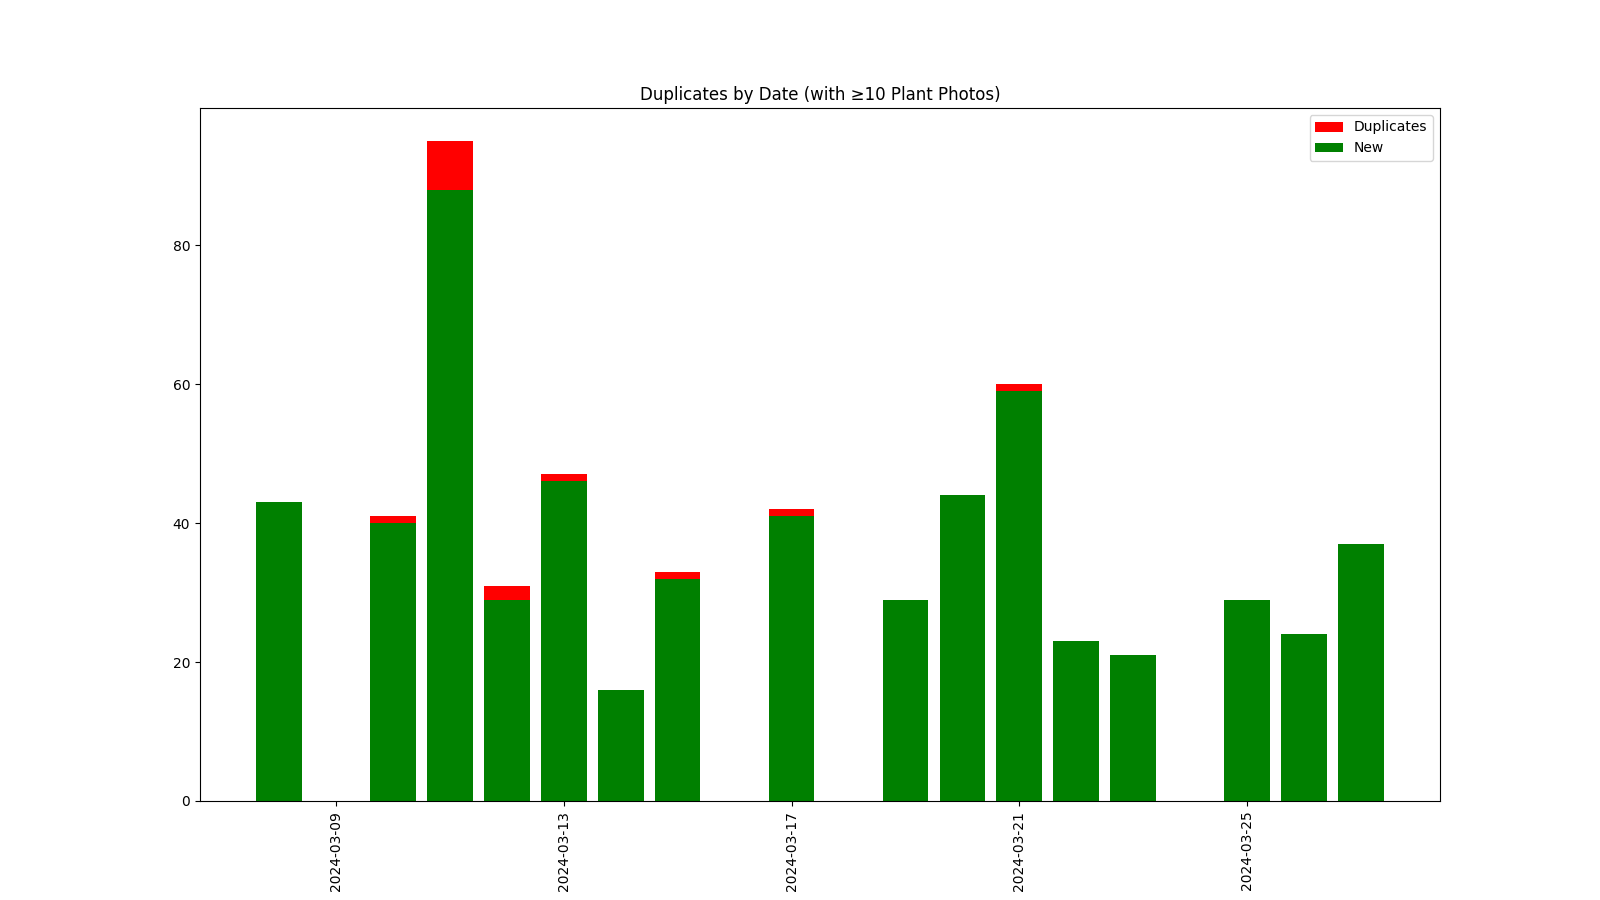
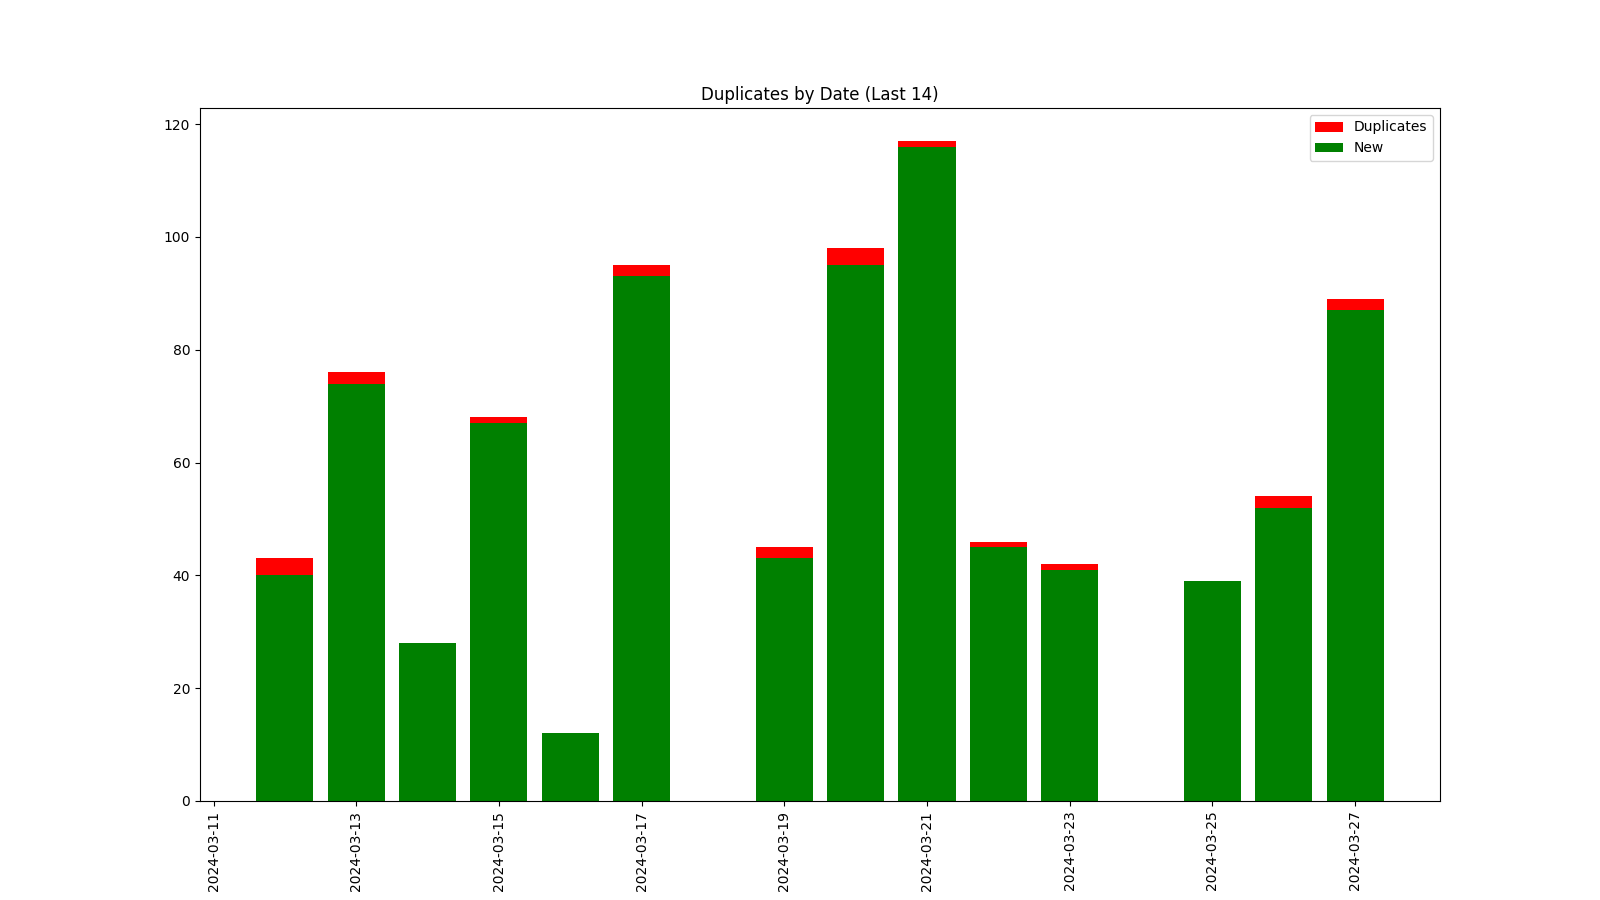
Ran pipeline

diff --git a/src/lk_plants/analysis/ReadMeDuplicates.py b/src/lk_plants/analysis/ReadMeDuplicates.py
@@ -6,6 +6,7 @@ import matplotlib.pyplot as plt
 from utils import Log
 
 from lk_plants.analysis.InfoReadMe import InfoReadMe
+from lk_plants.core.plant_photo.PlantPhoto import PlantPhoto
 from utils_future import Markdown, MarkdownPage
 
 log = Log('ReadMeDuplicates')
@@ -18,7 +19,7 @@ class ReadMeDuplicates(MarkdownPage, InfoReadMe):
 
     @cached_property
     def duplicates_by_date_stats(self) -> list[str]:
-        plant_photo_list = self.plant_photo_list
+        plant_photo_list = PlantPhoto.list_all()
         idx = {}
         for plant_photo in plant_photo_list:
             date_str = plant_photo.date_str
@@ -50,9 +51,11 @@ class ReadMeDuplicates(MarkdownPage, InfoReadMe):
     @cached_property
     def lines_duplicates_by_date(self) -> list[str]:
         plt.close()
-        stats_all = self.duplicates_by_date_stats
-        MIN_PHOTOS_IN_DATE = 10
-        stats = [s for s in stats_all if s['n_total'] >= MIN_PHOTOS_IN_DATE]
+        stats = self.duplicates_by_date_stats
+        MIN_DAYS_DISPLAY = 14
+        if len(stats) > MIN_DAYS_DISPLAY:
+            stats = stats[-MIN_DAYS_DISPLAY:]
+
         x = [datetime.strptime(s['date_str'], '%Y-%m-%d') for s in stats]
         y_duplicates = [s['n_total'] for s in stats]
         y_new = [s['n_new'] for s in stats]
@@ -64,10 +67,7 @@ class ReadMeDuplicates(MarkdownPage, InfoReadMe):
         plt.bar(x, y_duplicates, label='Duplicates', color="red")
         plt.bar(x, y_new, label='New', color="green")
         plt.legend()
-        plt.title(
-            'Duplicates by Date '
-            + f'(with ≥{MIN_PHOTOS_IN_DATE} Plant Photos)'
-        )
+        plt.title('Duplicates by Date ' + f'(Last {MIN_DAYS_DISPLAY})')
 
         chart_path = os.path.join('images', 'duplicates_by_date.png')
         plt.savefig(chart_path)
@@ -83,6 +83,9 @@ class ReadMeDuplicates(MarkdownPage, InfoReadMe):
     def lines(self) -> list[str]:
         return [
             '## Duplicates',
+            '',
+            'If the location of two plant photos is very close to each other, '
+            'we tag these as *duplicates* and exclude them from our analysis.',
             '',
             self.lines_duplicates_by_date,
             '',

diff --git a/src/lk_plants/analysis/ReadMeFunnel.py b/src/lk_plants/analysis/ReadMeFunnel.py
@@ -45,5 +45,18 @@ class ReadMeFunnel(MarkdownPage, InfoReadMe):
         return [
             '## Plant Photo Funnel',
             '',
+            'Of all the photos taken (**All**)',
+            ' we filter photos that are',
+            ' within the desired geographical area (**In Geo**)',
+            '',
+            'Next we filter out photos that might be ',
+            'duplicates (**Deduped**).',
+            '',
+            'Finally, we only consider identifications',
+            ' where the model confidence is at least ',
+            '20% (**Conf 20**). ',
+            'We list statistics for 5% and 10% as well.',
+            '',
             self.build_chart(),
+            '',
         ]

diff --git a/workflows/pipeline_test.py b/workflows/pipeline_test.py
@@ -1,8 +1,8 @@
-from lk_plants import ReadMe
+from lk_plants.analysis.ReadMeDuplicates import ReadMeDuplicates
 
 
 def test_main():
-    ReadMe().write()
+    ReadMeDuplicates().write()
 
 
 if __name__ == "__main__":

diff --git a/README.md b/README.md
@@ -4,7 +4,7 @@
 
 This project aims to use Computer Vision and Artificial Intelligence to identify plants in Sri Lanka's public parks, beginning with Viharamahadevi Park, Colombo.
 
-🤖 *This report was automatically generated on  **Mar 27, 2024 (10:07 AM)**, and is based on **627** plant photos.*
+🤖 *This report was automatically generated on  **Mar 27, 2024 (10:24 AM)**, and is based on **627** plant photos.*
 
 ## [PlantNet](https://plantnet.org)
 
@@ -30,7 +30,20 @@ Viharamahadevi Park is 24.27ha, and has an estimated [green cover](https://en.wi
 
 ## Plant Photo Funnel
 
+Of all the photos taken (**All**)
+ we filter photos that are
+ within the desired geographical area (**In Geo**)
+
+Next we filter out photos that might be 
+duplicates (**Deduped**).
+
+Finally, we only consider identifications
+ where the model confidence is at least 
+20% (**Conf 20**). 
+We list statistics for 5% and 10% as well.
+
 ![funnel](images/funnel.png)
+
 ## Most Common Species
 
 ### [*Mesua ferrea*](https://en.wikipedia.org/wiki/Mesua_ferrea) ([*Calophyllaceae*](https://en.wikipedia.org/wiki/Calophyllaceae))
@@ -350,5 +363,7 @@ Photos where the identification confidence is **< 20%**.
 <img src="data/images/Photo-2024-03-15-07-29-35.jpg" alt="Photo-2024-03-15-07-29-35"  width="50%" />
 
 ## Duplicates
+
+If the location of two plant photos is very close to each other, we tag these as *duplicates* and exclude them from our analysis.
 
 ![Duplicates by Date](images/duplicates_by_date.png)

diff --git a/README.about.md b/README.about.md
@@ -2,4 +2,4 @@
 
 This project aims to use Computer Vision and Artificial Intelligence to identify plants in Sri Lanka's public parks, beginning with Viharamahadevi Park, Colombo.
 
-🤖 *This report was automatically generated on  **Mar 27, 2024 (10:07 AM)**, and is based on **627** plant photos.*
+🤖 *This report was automatically generated on  **Mar 27, 2024 (10:24 AM)**, and is based on **627** plant photos.*

diff --git a/README.funnel.md b/README.funnel.md
@@ -1,3 +1,15 @@
 ## Plant Photo Funnel
 
+Of all the photos taken (**All**)
+ we filter photos that are
+ within the desired geographical area (**In Geo**)
+
+Next we filter out photos that might be 
+duplicates (**Deduped**).
+
+Finally, we only consider identifications
+ where the model confidence is at least 
+20% (**Conf 20**). 
+We list statistics for 5% and 10% as well.
+
 ![funnel](images/funnel.png)

diff --git a/README.duplicates.md b/README.duplicates.md
@@ -1,3 +1,5 @@
 ## Duplicates
 
+If the location of two plant photos is very close to each other, we tag these as *duplicates* and exclude them from our analysis.
+
 ![Duplicates by Date](images/duplicates_by_date.png)
